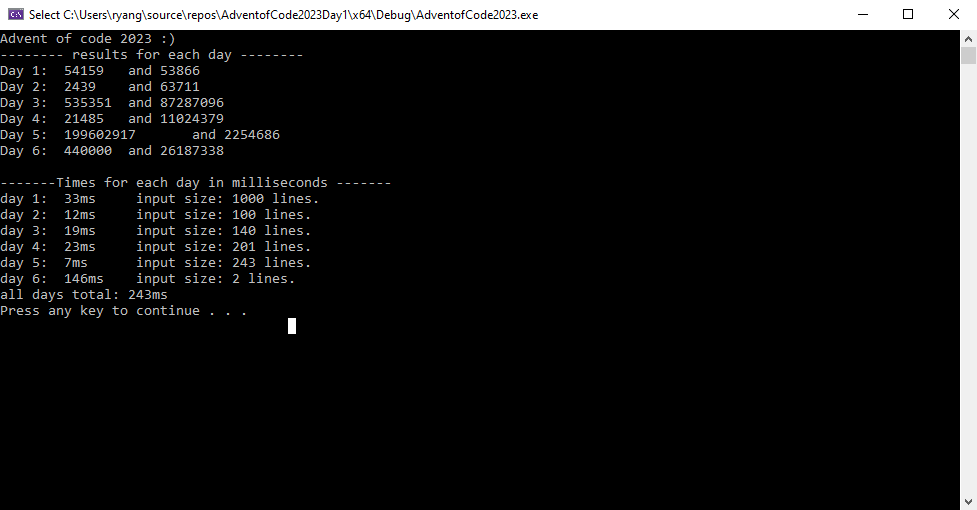
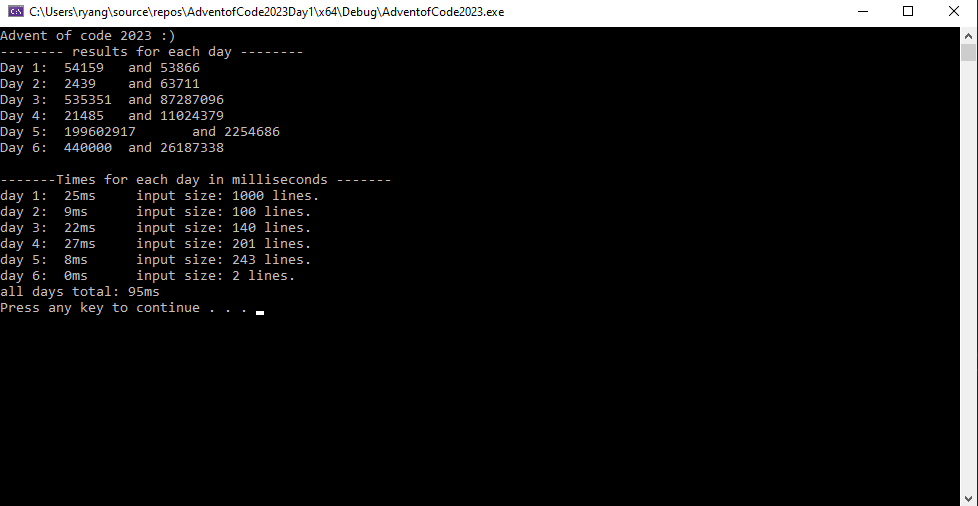
changed day6 from bruteforce method to descriminant of a quadratic trinomial. goes from 125ms to under 1ms.

diff --git a/AdventofCode2023Day1/Day6.cpp b/AdventofCode2023Day1/Day6.cpp
@@ -1,32 +1,35 @@
 #include <iostream>
-#include <string>
 #include "./headers/Day6.h"
 #include <vector>
 
-
-int Day6::day() {
-	std::string line;
-	
+int Day6::day() {	
 	int sum1 = 1, sum2 = 0;
 
 	/*
 	* PART 1
 	* just brute force these
+	* changed to descriminant of a quadratic trinomial.
+	* sqrt(pow(time,2) - 4 * distance);
 	*/
 	std::vector<int> time = { 42, 68, 69, 85 };
 	std::vector<int> distance = { 284, 1005, 1122, 1341 };
 	
 	for (int i = 0; i < time.size(); ++i) {
-		int count = 0;
-		for (int timeheld = 0; timeheld < time[i]; timeheld++) {
-			if (timeheld * (time[i] - timeheld) > distance[i]) {
-				count++;
-			}
-			else if(count > 0) { //past our winning range
-				break;
-			}
-		}
+
+		//O(1) method
+		int count = sqrt(pow(time[i], 2) - 4 * distance[i]);
+		if (distance[i] % 2 == 1) { count++; }
 		sum1 *= count;
+
+		//bruteforce method
+		//for (int timeheld = 0; timeheld < time[i]; timeheld++) {
+		//	if (timeheld * (time[i] - timeheld) > distance[i]) {
+		//		count++;
+		//	}
+		//	else if(count > 0) { //past our winning range
+		//		break;
+		//	}
+		//}
 	}
 	
 	/*
@@ -34,6 +37,12 @@ int Day6::day() {
 	*/
 	long long time2 = 42686985; //42million
 	long long distance2 = 284100511221341; //284 trillion
+
+	//trying the O(1) way I found. descriminant of a quadratic trinomial.
+	sum2 = sqrt(pow(time2, 2) - 4 * distance2);
+	if (distance2 % 2 == 1) { sum2++; } //if distance is odd, add one.
+
+	/*
 	//surely we can just brute force it again Kappa
 	for (int timeheld = 0; timeheld < time2; timeheld++) {
 		if (timeheld * (time2 - timeheld) > distance2) {
@@ -43,7 +52,9 @@ int Day6::day() {
 			break;
 		}
 	}
+	*/
 	//wait... that worked. BUT I know there is an O(1) approach out there.
+
 
 	std::cout << "Day 6:\t" << sum1 << "\tand " << sum2 << std::endl;
 	return 2;

diff --git a/README.md b/README.md
@@ -112,3 +112,9 @@ Day 6 - Wait For It
 		Calculate the ways to win that one race.
 
 		I just brute forced both part1 and part2, although I know there is an O(1) solution out there.
+
+	I changed from bruteforce to descriminant of a quadratic trinomial.
+		answer = sqrt(pow(time,2) - 4 * distance);
+		if(distance%2 == 1){ answer++ }
+
+		It now runs < 1ms instead of ~125ms.
